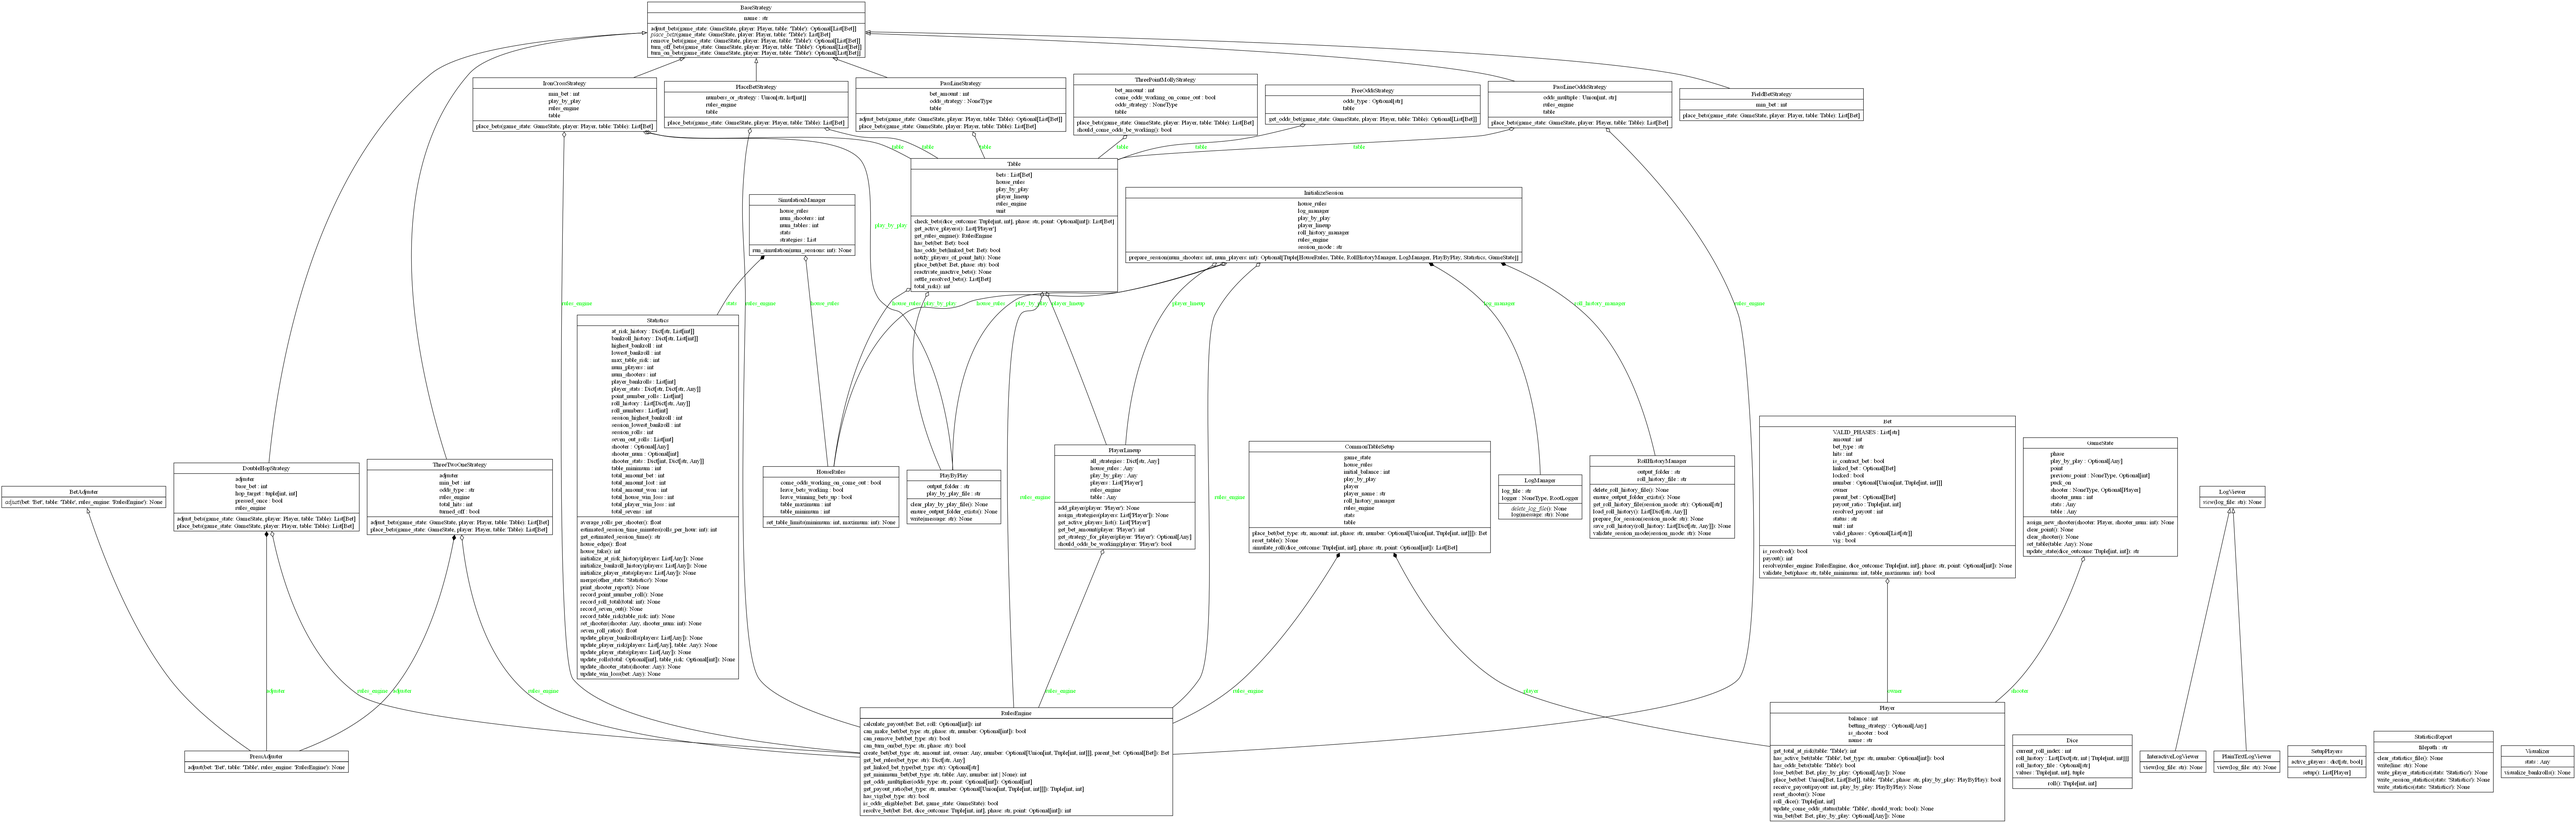
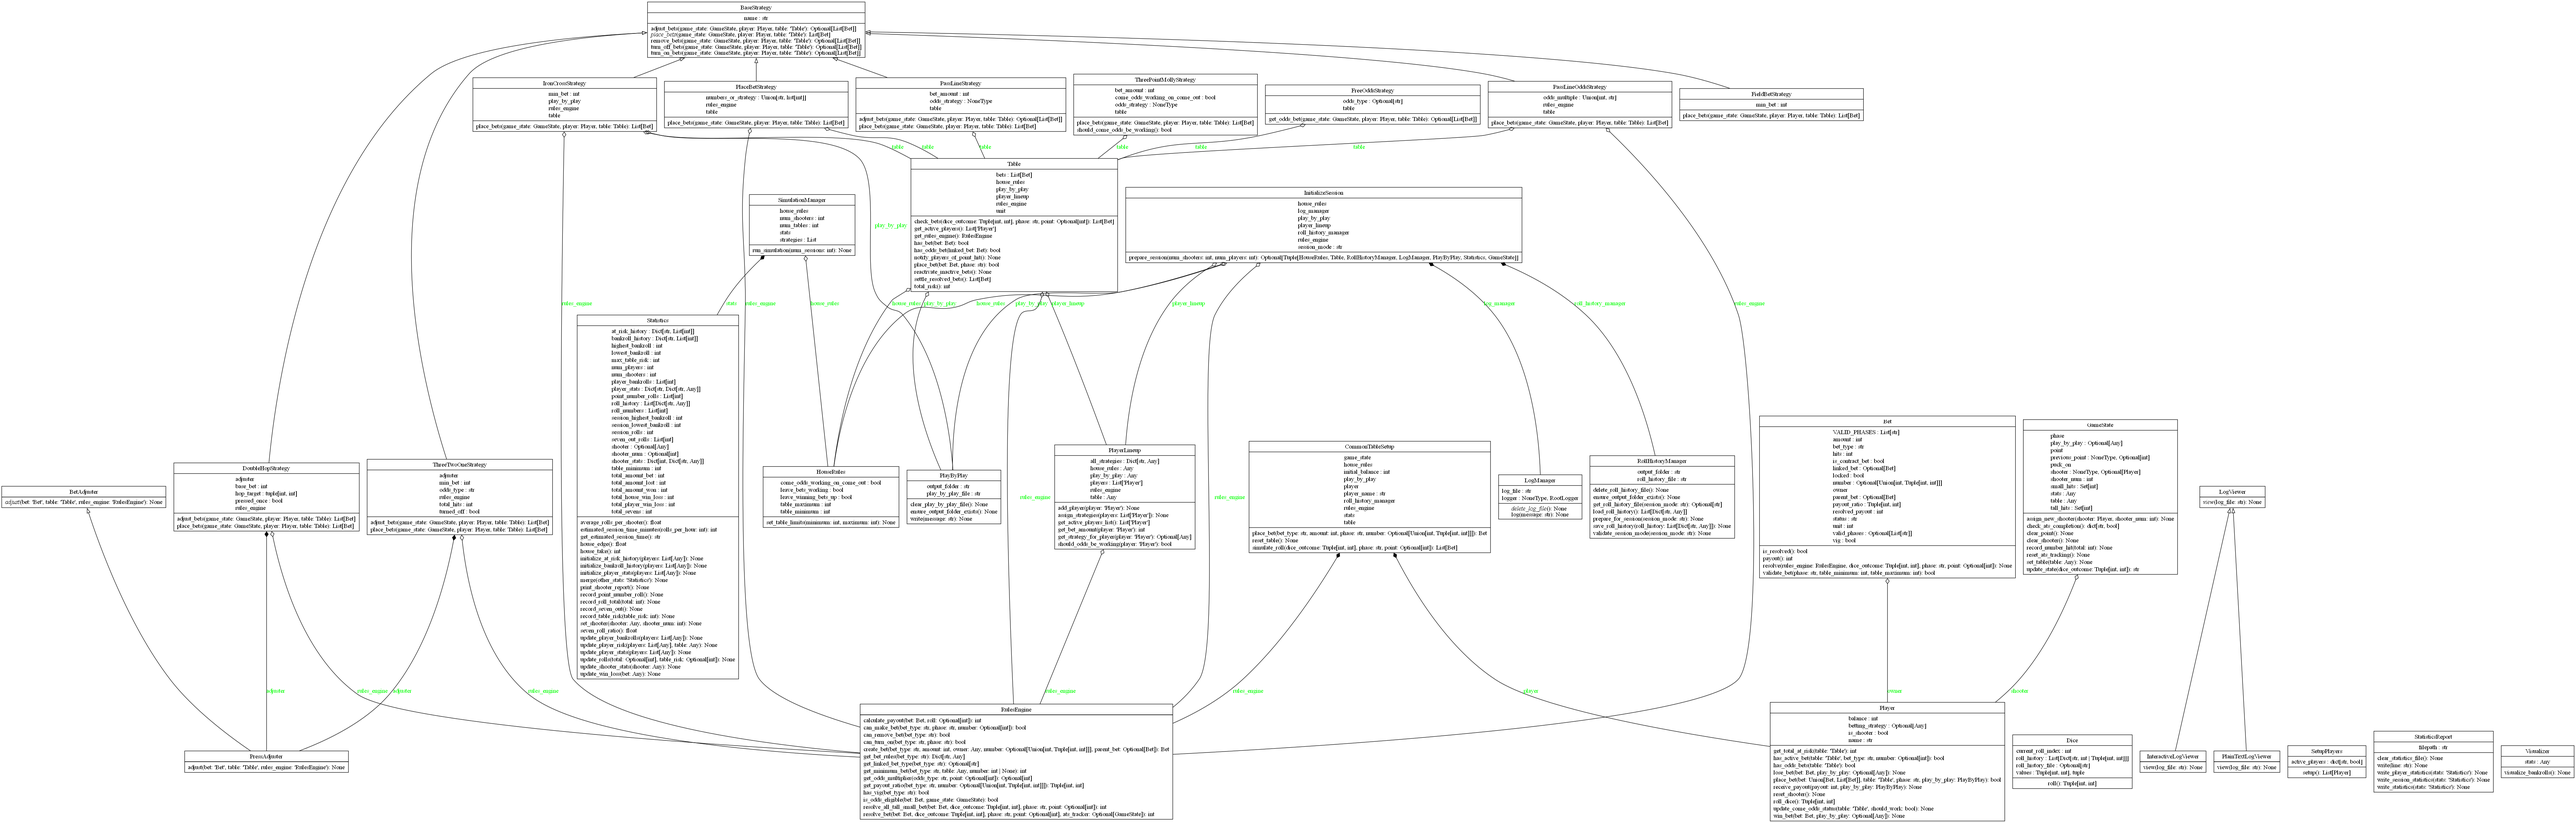
Started ATS Bet

Changed region(s): [[0.3119, 0.839, 0.4367, 1.0], [0.7798, 0.5283, 0.8421, 0.6837]]

diff --git a/craps/game_state.py b/craps/game_state.py
@@ -1,4 +1,4 @@
-from typing import List, Optional, Any, Tuple
+from typing import Optional, Any, Tuple, Set
 from colorama import Fore, Style
 from craps.player import Player
 
@@ -15,31 +15,8 @@ class GameState:
         self.stats = stats
         self.play_by_play = play_by_play
         self.shooter: Optional[Player] = None  # Store current shooter (now a Player)
-
-    def set_table(self, table: Any) -> None:
-        """Set the table reference."""
-        self.table = table
-
-    def assign_new_shooter(self, shooter: Player, shooter_num: int) -> None:
-        """
-        Assigns a new shooter and resets their stats.
-
-        :param shooter: The new shooter for the game.
-        """
-        self.shooter = shooter
-        self.shooter_num = shooter_num
-        self.shooter.is_shooter = True  # Mark player as the shooter
-        if self.play_by_play:
-            self.play_by_play.write("==============================================================================")
-            self.play_by_play.write(f"🎲🎲 Shooter #{shooter_num}: {self.shooter.name} steps up!")
-
-    def clear_shooter(self) -> None:
-        """
-        Clears the current shooter when a new shooter is needed.
-        """
-        if self.shooter:
-            self.shooter.is_shooter = False
-        self.shooter = None
+        self.small_hits: Set[int] = set()
+        self.tall_hits: Set[int] = set()
 
     @property
     def point(self) -> Optional[int]:
@@ -63,6 +40,60 @@ class GameState:
         """Check if the puck should be 'ON' (point is set)."""
         return self._point is not None
 
+    def set_table(self, table: Any) -> None:
+        """Set the table reference."""
+        self.table = table
+
+    def assign_new_shooter(self, shooter: Player, shooter_num: int) -> None:
+        """
+        Assigns a new shooter and resets their stats.
+
+        :param shooter: The new shooter for the game.
+        """
+        self.shooter = shooter
+        self.shooter_num = shooter_num
+        self.shooter.is_shooter = True  # Mark player as the shooter
+        self.reset_ats_tracking()
+        
+        if self.play_by_play:
+            self.play_by_play.write("==============================================================================")
+            self.play_by_play.write(f"🎲🎲 Shooter #{shooter_num}: {self.shooter.name} steps up!")
+
+    def reset_ats_tracking(self) -> None:
+        """Resets number hit tracking for All/Tall/Small bets."""
+        self.small_hits.clear()
+        self.tall_hits.clear()
+        
+    def record_number_hit(self, total: int) -> None:
+        """
+        Track number hit for All Tall Small logic.
+        Called after every roll (excluding 7s).
+        """
+        if total in range(2, 7):
+            self.small_hits.add(total)
+        elif total in range(8, 13):
+            self.tall_hits.add(total)
+
+    def check_ats_completion(self) -> dict[str, bool]:
+        """
+        Return whether each component of ATS is completed.
+        Used by resolver logic to determine wins.
+        """
+        return {
+            "small_complete": all(n in self.small_hits for n in range(2, 7)),
+            "tall_complete": all(n in self.tall_hits for n in range(8, 13)),
+            "all_complete": all(n in self.small_hits for n in range(2, 7)) and
+                            all(n in self.tall_hits for n in range(8, 13)),
+        }
+
+    def clear_shooter(self) -> None:
+        """
+        Clears the current shooter when a new shooter is needed.
+        """
+        if self.shooter:
+            self.shooter.is_shooter = False
+        self.shooter = None
+
     def update_state(self, dice_outcome: Tuple[int, int]) -> str:
         """
         Update the game state based on the dice outcome.
@@ -72,6 +103,10 @@ class GameState:
         """
         total = sum(dice_outcome)
         message = "  No change in game state."
+        
+        # Update ATS tracking
+        if total != 7:
+            self.record_number_hit(total)
 
         if self.phase == "come-out":
             if total in [7, 11]:  # Natural win
@@ -91,6 +126,7 @@ class GameState:
             elif total == 7:  # Seven out, pass line loses
                 self.stats.record_seven_out()
                 self.point = None  # Reset back to come-out
+                self.reset_ats_tracking()  # Clear tracked numbers on 7-out
                 message = f"  ❌ 7-Out: Pass Line bets lose! → Puck OFF."
 
         return message

diff --git a/craps/rules.py b/craps/rules.py
@@ -189,7 +189,38 @@ BET_RULES = {
                 "point_win": ["hop_win"],
                 "point_lose": ["hop_lose"],
             },
-        }
+        },
+        "All Tall Small Bets": {
+            "is_contract_bet": False,
+            "valid_numbers": None,
+            "Small": {
+                "linked_bet": None,
+                "valid_phases": ["come-out"],
+                "payout_ratio": (34, 1),
+                "resolution": {
+                    "win_condition": ["small_complete"],
+                    "lose_condition": [7],
+                },
+            },
+            "Tall": {
+                "linked_bet": None,
+                "valid_phases": ["come-out"],
+                "payout_ratio": (34, 1),
+                "resolution": {
+                    "win_condition": ["tall_complete"],
+                    "lose_condition": [7],
+                },
+            },
+            "All": {
+                "linked_bet": None,
+                "valid_phases": ["come-out"],
+                "payout_ratio": (175, 1),
+                "resolution": {
+                    "win_condition": ["all_complete"],
+                    "lose_condition": [7],
+                },
+            },
+        },
     }
 }
 
